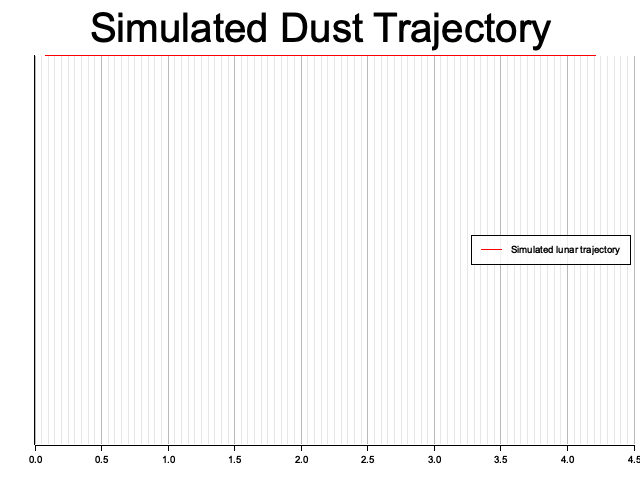
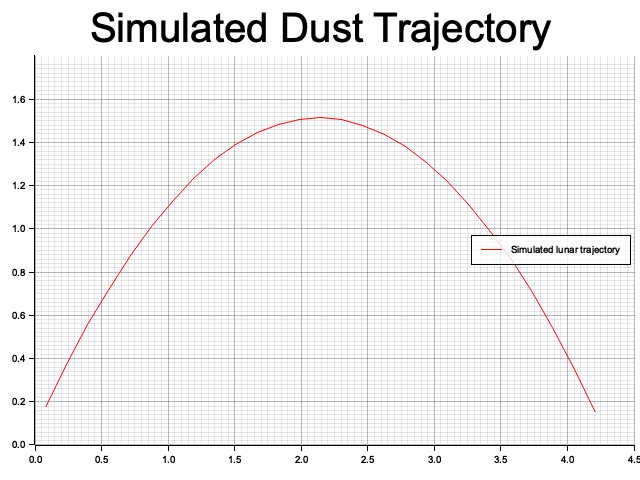
Fix graph

Changed region(s): [[0.0, 0.125, 1.0, 0.9375]]

diff --git a/host/src/main.rs b/host/src/main.rs
@@ -8,7 +8,7 @@ use trajectory_core::{APPROXIMATE_CLIP_ONE_TRAJECTORY, APPROXIMATE_CLIP_TWO_TRAJ
 fn main() {
     env_logger::init();
 
-    plot(1, APPROXIMATE_CLIP_ONE_TRAJECTORY, 4.5f32, -0f32).unwrap();
+    plot(1, APPROXIMATE_CLIP_ONE_TRAJECTORY, 4.5f32, 1.8f32).unwrap();
     println!("Plotted clip 1 data in `graphs/simulated-clip-1.png`");
     plot(2, APPROXIMATE_CLIP_TWO_TRAJECTORY, 9.5f32, 3.8).unwrap();
     println!("Plotted clip 2 data in `graphs/simulated-clip-2.png`");
@@ -28,7 +28,6 @@ fn main() {
     receipt.verify(PROVE_MOON_LANDING_ID).unwrap();
     println!("I verified the proof for the trajectory calculation.");
 }
-
 
 fn plot(clip_number: u8, trajectory: [(f64, f64); 27], xsize: f32, ysize: f32) -> Result<(), Box<dyn std::error::Error>> {
     let filename = format!("graphs/simulated-clip-{}.png", clip_number);
